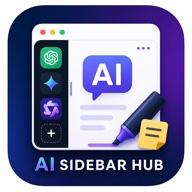
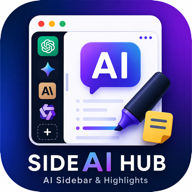
update

diff --git a/public/index.html b/public/index.html
@@ -371,7 +371,7 @@
         <div class="flex justify-between items-start flex-wrap gap-3 mb-4">
           <div>
             <p class="font-mono text-xs tracking-widest mb-1" style="color:#2d4050;" data-i18n="personal_status">// PERSONAL BUILD</p>
-            <h3 class="font-bold text-xl mb-1" style="color:#c8d6e5;"><i data-lucide="panel-right-open" class="proj-icon" style="width:20px;height:20px;color:#22d3ee;"></i> AI Sidebar Hub + Highlights</h3>
+            <h3 class="font-bold text-xl mb-1" style="color:#c8d6e5;"><i data-lucide="panel-right-open" class="proj-icon" style="width:20px;height:20px;color:#22d3ee;"></i> SideAI Hub</h3>
             <p class="font-mono text-xs text-st" data-i18n="personal_platform">BROWSER EXTENSION</p>
           </div>
           <span class="tag" style="border-color:rgba(34,211,238,0.35);color:#22d3ee;background:rgba(34,211,238,0.07);">AI · CHROME</span>
@@ -403,18 +403,23 @@
           <span class="tag">JavaScript</span><span class="tag">Chrome Extension</span><span class="tag">OpenAI ChatGPT</span><span class="tag">Google Gemini</span><span class="tag">Anthropic Claude</span><span class="tag">Chrome Storage</span>
         </div>
 
-        <div class="mt-auto flex flex-wrap gap-3">
-          <a href="https://web-ai-sidebar-hub-highlights.vercel.app/" target="_blank" rel="noopener noreferrer" class="btn-ghost no-underline inline-flex items-center gap-2">
-            <i data-lucide="file-text" style="width:14px;height:14px;color:#22d3ee;"></i><span data-i18n="personal_privacy_link">PRIVACY POLICY</span>
+        <div class="mt-auto">
+          <a href="https://sideaihub.com/" target="_blank" rel="noopener noreferrer" class="personal-site-row no-underline" aria-label="Open SideAI Hub website">
+            <span class="personal-site-label"><i data-lucide="globe-2" style="width:14px;height:14px;"></i><span data-i18n="personal_site_label">Website</span></span>
+            <span class="personal-site-url">sideaihub.com</span>
+            <span class="personal-site-arrow" aria-hidden="true"><i data-lucide="arrow-up-right" style="width:14px;height:14px;"></i></span>
           </a>
         </div>
       </div>
 
       <div class="hud-card bracket rounded-xl p-6 lg:col-span-2 reveal flex flex-col items-center text-center justify-center personal-side-card">
         <div class="personal-icon-wrap mb-6">
-          <img src="assets/images/icon-192.jpg" srcset="assets/images/icon-192.jpg 192w, assets/images/icon-384.jpg 384w" sizes="112px" width="112" height="112" loading="lazy" decoding="async" alt="AI Sidebar Hub + Highlights icon" class="personal-icon rounded-lg"/>
+          <img src="assets/images/icon-192.jpg" srcset="assets/images/icon-192.jpg 192w, assets/images/icon-384.jpg 384w" sizes="112px" width="112" height="112" loading="lazy" decoding="async" alt="SideAI Hub icon" class="personal-icon rounded-lg"/>
         </div>
         <div class="personal-signal-bars" aria-hidden="true"><span></span><span></span><span></span></div>
+        <a href="https://sideaihub.com/" target="_blank" rel="noopener noreferrer" class="personal-side-url no-underline mb-5" aria-label="Open SideAI Hub website">
+          <i data-lucide="globe-2" style="width:13px;height:13px;"></i><span>sideaihub.com</span>
+        </a>
         <p class="font-mono text-xs tracking-widest mb-2" style="color:#2d4050;" data-i18n="personal_role_label">ROLE</p>
         <h3 class="font-bold text-lg mb-4" style="color:#c8d6e5;" data-i18n="personal_role">Solo Product Builder</h3>
         <div class="divider w-full mb-4"></div>

diff --git a/public/assets/css/main.css b/public/assets/css/main.css
@@ -369,6 +369,35 @@ nav a{text-decoration:none;}
 .personal-feature-cell:nth-child(2)::after{animation-delay:.6s;}
 .personal-feature-cell:nth-child(3)::after{animation-delay:1.2s;}
 .personal-main-card:hover .personal-feature-cell{border-color:rgba(34,211,238,0.42);transform:translateZ(18px) translateX(3px);}
+.personal-site-row{
+  display:flex;align-items:center;gap:10px;width:100%;padding-top:12px;border-top:1px solid rgba(127,168,201,0.15);
+  color:#7fa8c9;transition:color .22s ease,border-color .22s ease;
+}
+.personal-site-row:hover{border-color:rgba(34,211,238,0.34);color:#c8d6e5;}
+.personal-site-label{
+  display:inline-flex;align-items:center;gap:7px;flex:0 0 auto;color:#2d4050;
+  font:700 .72rem/1 ui-monospace,SFMono-Regular,Menlo,Monaco,Consolas,"Liberation Mono","Courier New",monospace;
+}
+.personal-site-url{
+  min-width:0;overflow:hidden;text-overflow:ellipsis;white-space:nowrap;
+  color:#a8d8ea;font:700 .9rem/1.25 ui-monospace,SFMono-Regular,Menlo,Monaco,Consolas,"Liberation Mono","Courier New",monospace;
+  transition:color .22s ease;
+}
+.personal-site-row:hover .personal-site-url{color:#d8ecf8;}
+.personal-site-arrow{
+  display:inline-flex;align-items:center;justify-content:center;flex:0 0 auto;width:26px;height:26px;border-radius:7px;
+  border:1px solid rgba(34,211,238,0.22);background:rgba(34,211,238,0.055);color:#22d3ee;
+  transition:border-color .22s ease,background .22s ease,transform .22s ease;
+}
+.personal-site-row:hover .personal-site-arrow{border-color:rgba(34,211,238,0.48);background:rgba(34,211,238,0.1);transform:translate(2px,-2px);}
+.personal-side-url{
+  display:inline-flex;align-items:center;gap:7px;max-width:100%;padding:7px 10px;border:1px solid rgba(34,211,238,0.25);
+  border-radius:7px;background:rgba(34,211,238,0.07);color:#a8d8ea;
+  font:700 .74rem/1 ui-monospace,SFMono-Regular,Menlo,Monaco,Consolas,"Liberation Mono","Courier New",monospace;
+  transition:border-color .25s ease,color .25s ease,background .25s ease,transform .25s ease;
+}
+.personal-side-url:hover{border-color:rgba(34,211,238,0.58);color:#c8d6e5;background:rgba(34,211,238,0.12);transform:translateY(-1px);}
+.personal-side-url span{min-width:0;overflow:hidden;text-overflow:ellipsis;white-space:nowrap;}
 .personal-signal-bars{display:flex;align-items:center;justify-content:center;gap:8px;margin:-12px 0 18px;}
 .personal-signal-bars span{display:block;width:26px;height:2px;border-radius:2px;
   background:linear-gradient(90deg,transparent,rgba(34,211,238,0.85),transparent);

diff --git a/public/assets/js/main.js b/public/assets/js/main.js
@@ -49,6 +49,7 @@ const T = {
     personal_feature1_title:'ASK AI', personal_feature1_desc:'Selected text is sent to AI services only after user action.',
     personal_feature2_title:'LOCAL STORAGE', personal_feature2_desc:'Highlights, notes, and settings are stored with Chrome storage.',
     personal_feature3_title:'NO TRACKING', personal_feature3_desc:'No data selling, browsing-history collection, advertising, or profiling.',
+    personal_site_label:'Website',
     personal_privacy_link:'PRIVACY POLICY', personal_role_label:'ROLE', personal_role:'Solo Product Builder',
     personal_side_desc:'Built from product idea to extension UX, AI-provider routing, highlight and note persistence, settings storage, and privacy policy.',
     edu_label:'06 — EDUCATION', edu_title:'Academic Background',
@@ -137,6 +138,7 @@ const T = {
     personal_feature1_title:'ASK AI', personal_feature1_desc:'Văn bản đã chọn chỉ được gửi tới dịch vụ AI khi người dùng chủ động thao tác.',
     personal_feature2_title:'LƯU CỤC BỘ', personal_feature2_desc:'Highlight, ghi chú và cài đặt được lưu bằng Chrome storage.',
     personal_feature3_title:'KHÔNG THEO DÕI', personal_feature3_desc:'Không bán dữ liệu, không thu thập lịch sử duyệt web, không quảng cáo hoặc profiling.',
+    personal_site_label:'Website',
     personal_privacy_link:'CHÍNH SÁCH RIÊNG TƯ', personal_role_label:'VAI TRÒ', personal_role:'Người xây dựng sản phẩm độc lập',
     personal_side_desc:'Tự xây dựng từ ý tưởng sản phẩm đến UX extension, điều phối nhà cung cấp AI, lưu highlight/ghi chú, lưu cài đặt và privacy policy.',
     edu_label:'06 — HỌC VẤN', edu_title:'Nền Tảng Học Vấn',

diff --git a/public/assets/js/scenes3d.js b/public/assets/js/scenes3d.js
@@ -2359,7 +2359,7 @@
   })();
 
   /* ────────────────────────────────────────────────────────────
-     E. PERSONAL PROJECT — AI Sidebar Extension Lab
+     E. PERSONAL PROJECT — SideAI Hub Extension Lab
      Ý nghĩa: Browser extension, vùng highlight, AI sidebar, local storage, privacy shield
      Vị trí: Hologram nổi phía sau card personal project
      ──────────────────────────────────────────────────────────── */
